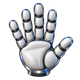
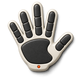
dock: the tools trade chrome for matte
The six illustrations shipped glossy — chrome bevels, specular highlights
down every edge, a blue-lensed magnifier. Six renders that each caught
their own light, next to a board that is flat paper and flatter chrome.

They are matte now: retro-industrial controls in warm ivory and charcoal,
one orange accent apiece and a restrained green on the frame's corners.
One palette across all six, so they read as a set of instruments rather
than as six pictures of instruments.

Nothing but the art moves. The sheet is the same 6 x 1 at 80 px a cell,
so `ICON_PX`, `icon_uv` and the box the sprite is drawn in are untouched,
and `shipped_icon_sheet_is_one_rgba_cell_per_tool` holds the new sheet to
exactly the shape it held the old one to.

diff --git a/README.md b/README.md
@@ -297,9 +297,10 @@ export to the agent:
   curves, the field only turns their box and anchors the snap.
 - Tool dock centered at the bottom — Select `V`, Hand `H`, Pencil `P`,
   Brush `B`, Frame `F`, Zoom `Z` — with six original RGBA illustrations
-  cut from one 80 px-per-cell sheet, in the tactile style of the brush
-  library's thumbnails. The former line icons remain the load-failure
-  fallback. `Esc` cancels the stroke, gesture or drag in progress.
+  cut from one 80 px-per-cell sheet: matte retro-industrial controls in
+  warm ivory, charcoal and restrained orange/green. The former line icons
+  remain the load-failure fallback. `Esc` cancels the stroke, gesture or
+  drag in progress.
 - Pan: Hand tool, Space held or the middle button drag the canvas; the
   wheel and two-finger scroll pan (Shift: horizontally); a three-finger
   swipe pans on the trackpad.
